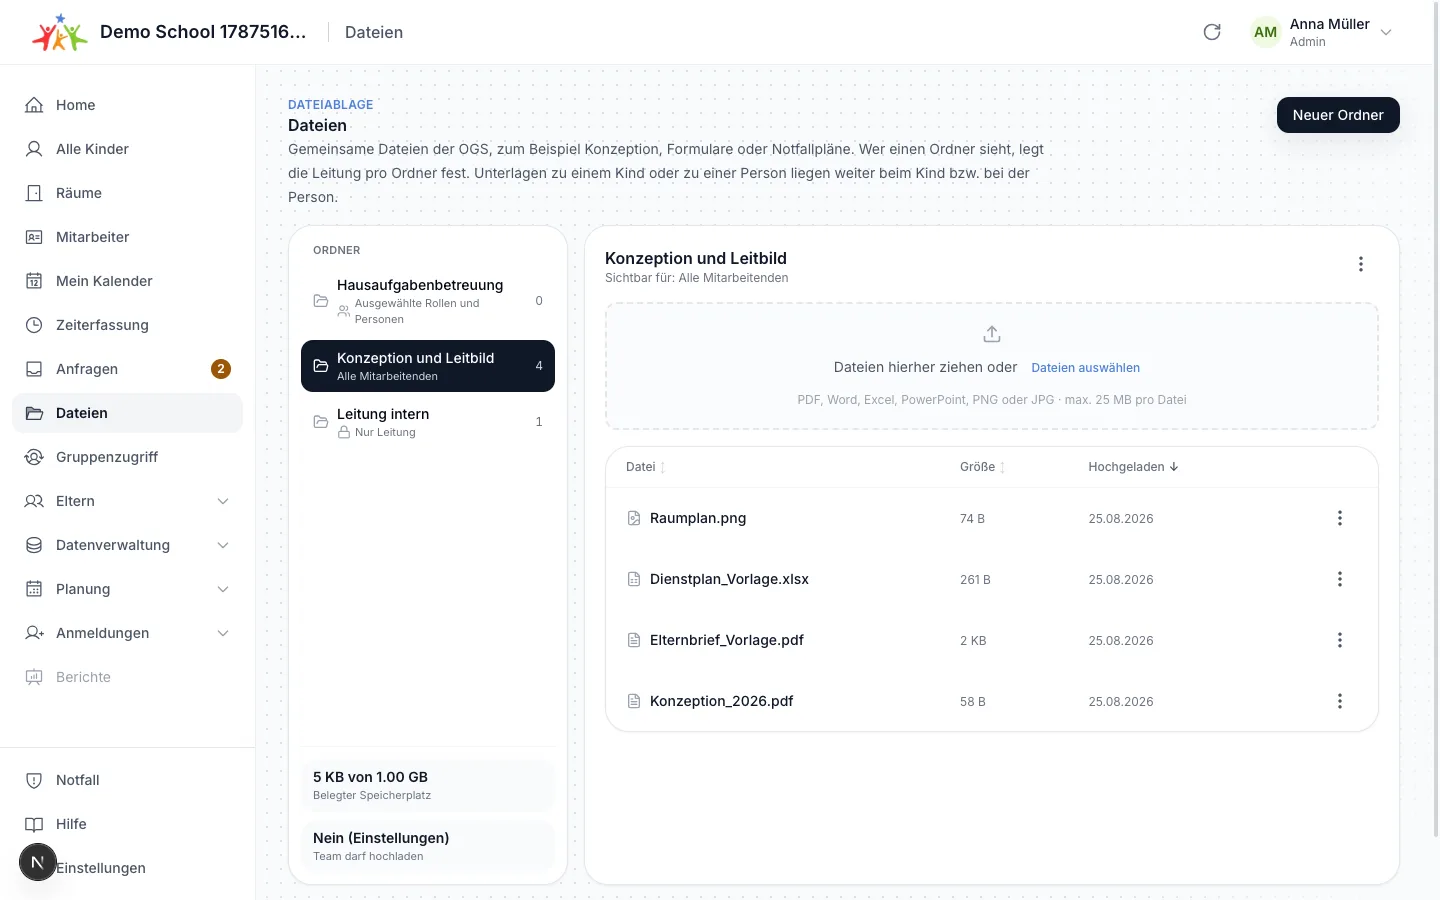
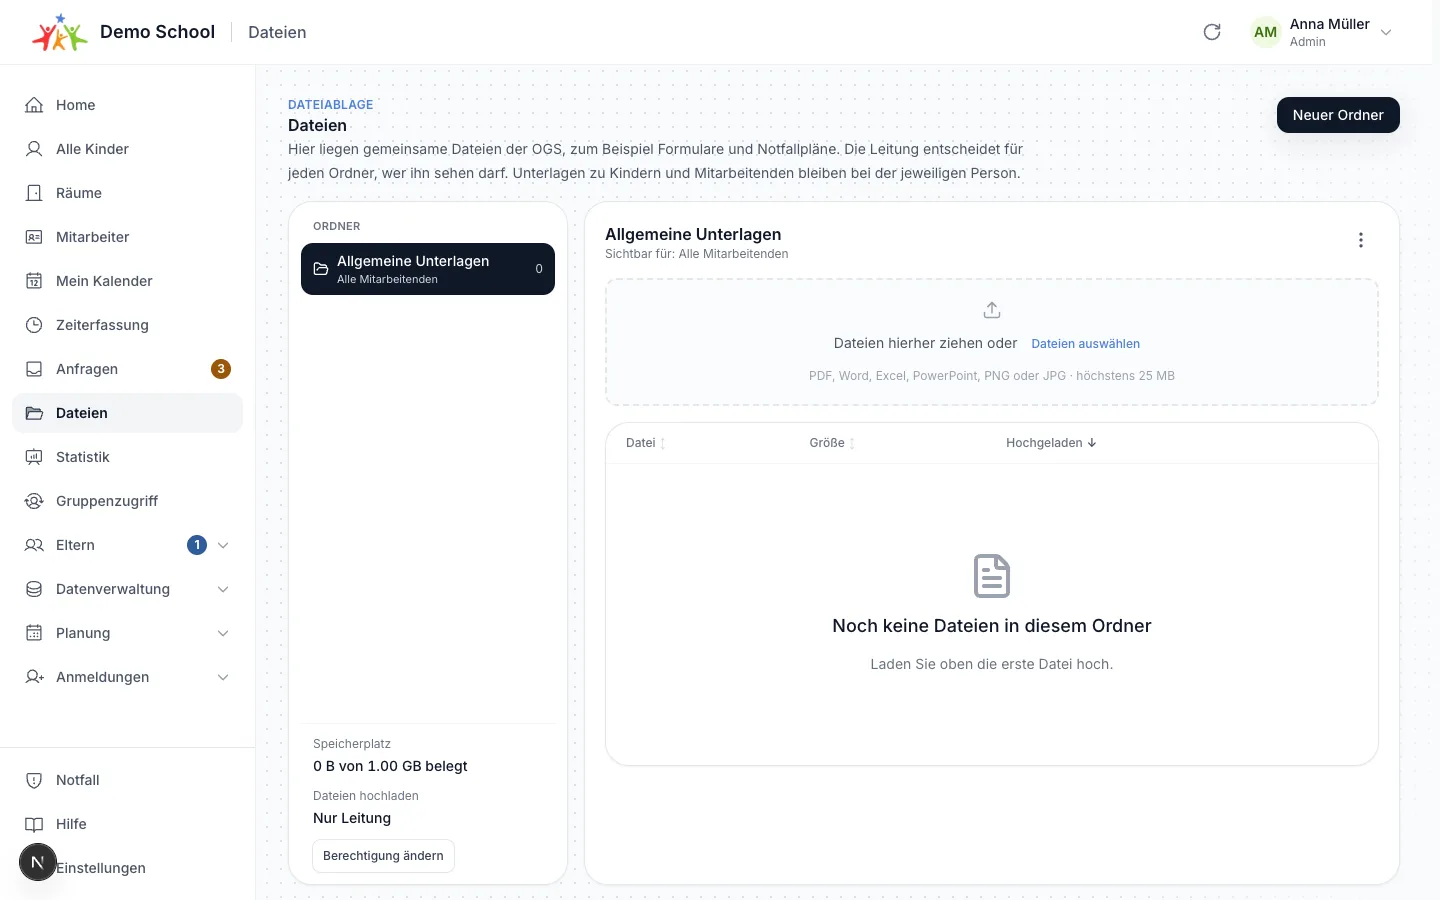
fix: clarify file upload permissions

diff --git a/frontend/src/components/files/files-page.tsx b/frontend/src/components/files/files-page.tsx
@@ -17,20 +17,22 @@ import {
   Upload,
   Users,
 } from "lucide-react";
+import { useSession } from "next-auth/react";
 import { useEffect, useRef, useState } from "react";
 import { Alert } from "~/components/ui/alert";
-import { Button } from "~/components/ui/button";
+import { Button, ButtonLink } from "~/components/ui/button";
 import { ConfirmDeleteModal } from "~/components/ui/confirm-delete-modal";
 import { CustomSelect } from "~/components/ui/custom-select";
 import { DataTable, type DataTableColumn } from "~/components/ui/data-table";
 import { EmptyState } from "~/components/ui/empty-state";
+import { InfoItem } from "~/components/ui/info-card";
 import {
   OverflowMenu,
   type OverflowMenuEntry,
 } from "~/components/ui/page-header/OverflowMenu";
 import { Skeleton } from "~/components/ui/skeleton";
-import { StatCard } from "~/components/ui/stat-card";
 import { formatDate } from "~/lib/date-helpers";
+import { hasPermission } from "~/lib/auth-utils";
 import { GROUP_ROOM_SHADES, LOCATION_COLORS } from "~/lib/location-helper";
 import {
   filesService,
@@ -81,6 +83,7 @@ function visibilityIcon(visibility: FileFolder["visibility"]) {
 }
 
 export function FilesPage() {
+  const { data: session } = useSession();
   const {
     data: overview,
     isLoading,
@@ -145,6 +148,9 @@ export function FilesPage() {
 
   const canManage = overview?.canManage ?? false;
   const canUpload = overview?.canUpload ?? false;
+  const canChangeUploadPermission =
+    hasPermission(session, "config:read") &&
+    hasPermission(session, "config:update");
 
   const folderNav = (
     <nav aria-label="Ordner" className="space-y-1">
@@ -208,10 +214,10 @@ export function FilesPage() {
           </p>
           <h1 className="text-base font-semibold text-gray-900">Dateien</h1>
           <p className="max-w-3xl text-sm leading-6 text-gray-600">
-            Gemeinsame Dateien der OGS, zum Beispiel Konzeption, Formulare oder
-            Notfallpläne. Wer einen Ordner sieht, legt die Leitung pro Ordner
-            fest. Unterlagen zu einem Kind oder zu einer Person liegen weiter
-            beim Kind bzw. bei der Person.
+            Hier liegen gemeinsame Dateien der OGS, zum Beispiel Formulare und
+            Notfallpläne. Die Leitung entscheidet für jeden Ordner, wer ihn
+            sehen darf. Unterlagen zu Kindern und Mitarbeitenden bleiben bei der
+            jeweiligen Person.
           </p>
         </div>
         {canManage && (
@@ -273,19 +279,33 @@ export function FilesPage() {
             </p>
             <div className="min-h-0 flex-1 overflow-y-auto">{folderNav}</div>
             {canManage && overview && overview.maxBytes > 0 && (
-              <div className="mt-3 space-y-2 border-t border-gray-100 pt-3">
-                <StatCard
-                  variant="tile"
-                  label="Belegter Speicherplatz"
-                  value={`${formatBytes(overview.usedBytes)} von ${formatBytes(overview.maxBytes)}`}
-                />
-                <StatCard
-                  variant="tile"
-                  label="Team darf hochladen"
+              <div className="mt-3 space-y-3 border-t border-gray-100 px-3 pt-3">
+                <InfoItem
+                  label="Speicherplatz"
                   value={
-                    overview.staffUploadEnabled ? "Ja" : "Nein (Einstellungen)"
+                    <span className="tabular-nums">
+                      {formatBytes(overview.usedBytes)} von{" "}
+                      {formatBytes(overview.maxBytes)} belegt
+                    </span>
                   }
                 />
+                <InfoItem
+                  label="Dateien hochladen"
+                  value={
+                    overview.staffUploadEnabled
+                      ? "Leitung und Team"
+                      : "Nur Leitung"
+                  }
+                />
+                {canChangeUploadPermission && (
+                  <ButtonLink
+                    href="/settings?tab=operations&highlight=files.staff_upload_enabled"
+                    variant="surface"
+                    size="compact"
+                  >
+                    Berechtigung ändern
+                  </ButtonLink>
+                )}
               </div>
             )}
           </aside>
@@ -592,7 +612,7 @@ function FolderFilesPanel({
             </Button>
           </p>
           <p className="text-xs text-gray-400">
-            PDF, Word, Excel, PowerPoint, PNG oder JPG · max. 25 MB pro Datei
+            PDF, Word, Excel, PowerPoint, PNG oder JPG · höchstens 25 MB
           </p>
           <input
             ref={fileInputRef}
@@ -623,7 +643,7 @@ function FolderFilesPanel({
             title="Noch keine Dateien in diesem Ordner"
             description={
               canUpload
-                ? "Laden Sie die erste Datei über den Bereich oben hoch."
+                ? "Laden Sie oben die erste Datei hoch."
                 : "Sobald die Leitung Dateien ablegt, erscheinen sie hier."
             }
           />

diff --git a/frontend/src/components/help/guide-data.ts b/frontend/src/components/help/guide-data.ts
@@ -1575,14 +1575,15 @@ export const appChapters: readonly GuideChapter[] = [
         title: "Dateien: gemeinsame Ablage der OGS",
         icon: FolderOpen,
         summary:
-          "Unter `Dateien` liegen gemeinsame Unterlagen der OGS wie Konzeption, Formulare oder Notfallpläne. Wer einen Ordner sieht, legt die Leitung pro Ordner fest. Unterlagen zu einem Kind oder zu einer Person gehören nicht hierher, sondern in den `Dokumente`-Reiter beim Kind bzw. bei der Person.",
+          "Unter `Dateien` liegen gemeinsame Unterlagen der OGS, zum Beispiel Formulare und Notfallpläne. Die Leitung legt pro Ordner fest, wer ihn sehen darf. Unterlagen zu Kindern und Mitarbeitenden bleiben im `Dokumente`-Bereich der Person.",
         steps: [
           "`Dateien` in der Seitenleiste öffnen. Links stehen die Ordner, rechts die Dateien des gewählten Ordners.",
           "Als Leitung mit `Neuer Ordner` einen Ordner anlegen und die Sichtbarkeit wählen: `Alle Mitarbeitenden`, `Nur Leitung` oder `Ausgewählt` (bestimmte Rollen und Personen). Alle Dateien im Ordner übernehmen diese Einstellung.",
           "Dateien per Ziehen oder über `Dateien auswählen` hochladen. Erlaubt sind PDF, Word, Excel, PowerPoint, PNG und JPG bis 25 MB pro Datei.",
-          "PDF und Bilder öffnen sich per Klick auf den Dateinamen direkt im Browser. Word, Excel und PowerPoint werden heruntergeladen.",
+          "Den Dateinamen wählen. PDF-Dateien und Bilder öffnen sich direkt. Word-, Excel- und PowerPoint-Dateien werden heruntergeladen.",
           "Über das Menü mit den drei Punkten an einer Datei `Öffnen`, `Herunterladen` oder `Löschen` wählen; am Ordner `Ordner bearbeiten` oder `Ordner löschen`.",
-          "Standardmäßig lädt nur die Leitung hoch. Unter `Einstellungen` -> `Team darf Dateien hochladen` dürfen alle Mitarbeitenden in die Ordner hochladen, die sie sehen, und ihre eigenen Dateien wieder löschen.",
+          "Am Computer sehen Sie unter `Dateien hochladen`, wer Dateien hochladen darf. Wenn Sie Einstellungen ändern dürfen, öffnen Sie mit `Berechtigung ändern` die passende Einstellung.",
+          "Standardmäßig lädt nur die Leitung Dateien hoch. Schalten Sie `Team darf Dateien hochladen` ein, wenn auch das Team hochladen darf. Eigene Dateien können Mitarbeitende wieder löschen.",
         ],
         callout: {
           title: "Sichtbarkeit gilt pro Ordner",
@@ -1590,7 +1591,7 @@ export const appChapters: readonly GuideChapter[] = [
           tone: "blue",
         },
         screenshot:
-          "Dateiablage mit Ordnerliste links, Dateitabelle rechts und dem Fenster zum Anlegen eines Ordners.",
+          "Dateiablage mit Ordnerliste, Upload-Berechtigung und Dateitabelle.",
         image: "/help/screens/dateien.webp",
       },
       {

diff --git a/frontend/src/components/files/files-page.test.tsx b/frontend/src/components/files/files-page.test.tsx
@@ -1,0 +1,87 @@
+import { render, screen } from "@testing-library/react";
+import { beforeEach, describe, expect, it, vi } from "vitest";
+
+import type { FileFolder, FolderFiles, FolderOverview } from "~/lib/files-api";
+import { FilesPage } from "./files-page";
+
+const mutate = vi.hoisted(() => vi.fn());
+const useSWRAuth = vi.hoisted(() => vi.fn());
+const useSession = vi.hoisted(() => vi.fn());
+
+vi.mock("~/lib/swr", () => ({ useSWRAuth }));
+vi.mock("next-auth/react", () => ({ useSession }));
+
+const folder: FileFolder = {
+  id: "1",
+  name: "Konzeption",
+  visibility: "all_staff",
+  fileCount: 0,
+  roleIds: [],
+  accountIds: [],
+  createdAt: "2026-08-29T10:00:00Z",
+};
+
+function renderPage(staffUploadEnabled: boolean) {
+  const overview: FolderOverview = {
+    folders: [folder],
+    canManage: true,
+    canUpload: true,
+    staffUploadEnabled,
+    usedBytes: 0,
+    maxBytes: 1024 * 1024 * 1024,
+  };
+  const folderFiles: FolderFiles = { folder, files: [] };
+
+  useSWRAuth.mockImplementation((key: string) => ({
+    data: key === "files-folders" ? overview : folderFiles,
+    error: undefined,
+    isLoading: false,
+    mutate,
+  }));
+
+  render(<FilesPage />);
+}
+
+describe("FilesPage upload permission summary", () => {
+  beforeEach(() => {
+    mutate.mockReset();
+    useSWRAuth.mockReset();
+    useSession.mockReturnValue({
+      data: {
+        user: { permissions: ["config:read", "config:update"] },
+      },
+    });
+  });
+
+  it("says that only the leadership uploads when team uploads are off", () => {
+    renderPage(false);
+
+    expect(screen.getByText("Dateien hochladen")).toBeInTheDocument();
+    expect(screen.getByText("Nur Leitung")).toBeInTheDocument();
+    expect(screen.queryByText("Nein (Einstellungen)")).not.toBeInTheDocument();
+  });
+
+  it("says that leadership and team upload when team uploads are on", () => {
+    renderPage(true);
+
+    expect(screen.getByText("Leitung und Team")).toBeInTheDocument();
+    expect(
+      screen.getByRole("link", { name: "Berechtigung ändern" }),
+    ).toHaveAttribute(
+      "href",
+      "/settings?tab=operations&highlight=files.staff_upload_enabled",
+    );
+  });
+
+  it("does not link to settings without permission to change them", () => {
+    useSession.mockReturnValue({
+      data: { user: { permissions: ["files:manage"] } },
+    });
+
+    renderPage(false);
+
+    expect(
+      screen.queryByRole("link", { name: "Berechtigung ändern" }),
+    ).not.toBeInTheDocument();
+  });
+});

diff --git a/backend/services/config/defaults/files.go b/backend/services/config/defaults/files.go
@@ -12,7 +12,7 @@ func init() {
 	config.Register(config.Definition{
 		Key:             config.KeyFilesStaffUploadEnabled,
 		Label:           "Team darf Dateien hochladen",
-		Description:     "Wenn aktiv, dürfen alle Mitarbeitenden in die Ordner hochladen, die sie sehen, und ihre eigenen Dateien wieder löschen. Ordner anlegen und freigeben bleibt Aufgabe der Leitung.",
+		Description:     "Wenn diese Einstellung eingeschaltet ist, darf auch das Team Dateien hochladen. Mitarbeitende können eigene Dateien wieder löschen. Ordner verwaltet weiterhin die Leitung.",
 		Type:            config.FieldBoolean,
 		Default:         false,
 		ReadPermission:  "config:read",
